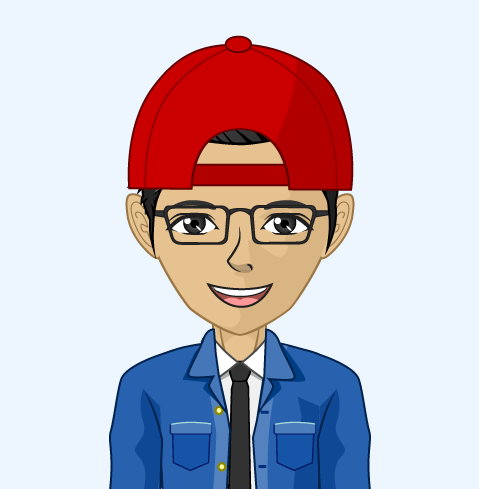
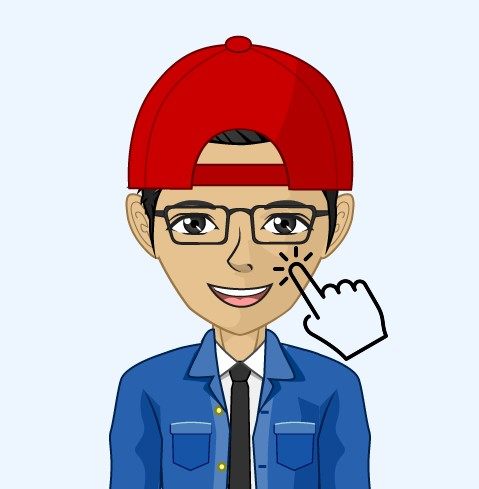
added new features to change pfp

diff --git a/src/Portfolio/Navbar/Navbar.css b/src/Portfolio/Navbar/Navbar.css
@@ -66,6 +66,7 @@
     opacity: 1;
     transition: all 0.5s ease;
     z-index: 1;
+    list-style-type: none;
   }
 
   .nav-links {
@@ -75,30 +76,18 @@
     display: table;
   }
 
+  .navbar-logo {
+    position: absolute;
+  }
+
   .menu-icon {
+    color: white;
     display: block;
     position: absolute;
     top: 0;
     right: 0;
-    transform: translate(-100%, 60%);
+    transform: translate(-100%, 55%);
     font-size: 1.8rem;
     cursor: pointer;
   }
 }
-
-/*@media screen and (max-width: 810px) {
-  .NavbarItems {
-  }
-
-  .nav-links {
-    display: none;
-  }
-
-  .navbar-logo {
-    justify-content: center;
-    grid-template-columns: none;
-    grid-gap: 0px;
-    text-align: center;
-    margin-right: none;
-  }
-}*/

diff --git a/src/Portfolio/Home/Profile.css b/src/Portfolio/Home/Profile.css
@@ -70,13 +70,23 @@
   background-size: cover;
   border-radius: 50%;
   background-position: center;
+  cursor: pointer;
+}
+
+.pic2 {
+  height: 92%;
+  width: 92%;
+  background-image: url("../../assets/Home/pic2.jpg");
+  background-size: cover;
+  border-radius: 50%;
+  background-position: center;
+  cursor: pointer;
 }
 
 .colz .colz-icon i {
   color: white;
-  padding: 8px;
-  padding-left: 0px;
-  font-size: 20px;
+  padding: 10px;
+  font-size: 25px;
 }
 
 @media screen and (max-width: 1110px) {
@@ -104,6 +114,11 @@
     height: 320px;
     width: 320px;
     margin: 0 0 0 4px;
+  }
+
+  .colz .colz-icon i {
+    font-size: 40px;
+    margin-bottom: 20px;
   }
 }
 

diff --git a/src/Portfolio/Home/Profile.js b/src/Portfolio/Home/Profile.js
@@ -5,6 +5,7 @@ import './Profile.css';
 export default function Profile() {
 
   const [resume, setResume] = useState('resumé');
+  const[pic, setPic] = useState(false);
 
   return (
     <div className="profile-container">
@@ -51,8 +52,8 @@ export default function Profile() {
             </a>
           </div>
         </div>
-        <div className='profile-picture'>
-          <div className='profile-picture-background'></div>
+        <div className='profile-picture' onClick={() => setPic(!pic)} >
+          <div className={pic ? 'pic2' : 'profile-picture-background'}></div>
         </div>
       </div>
     </div>
